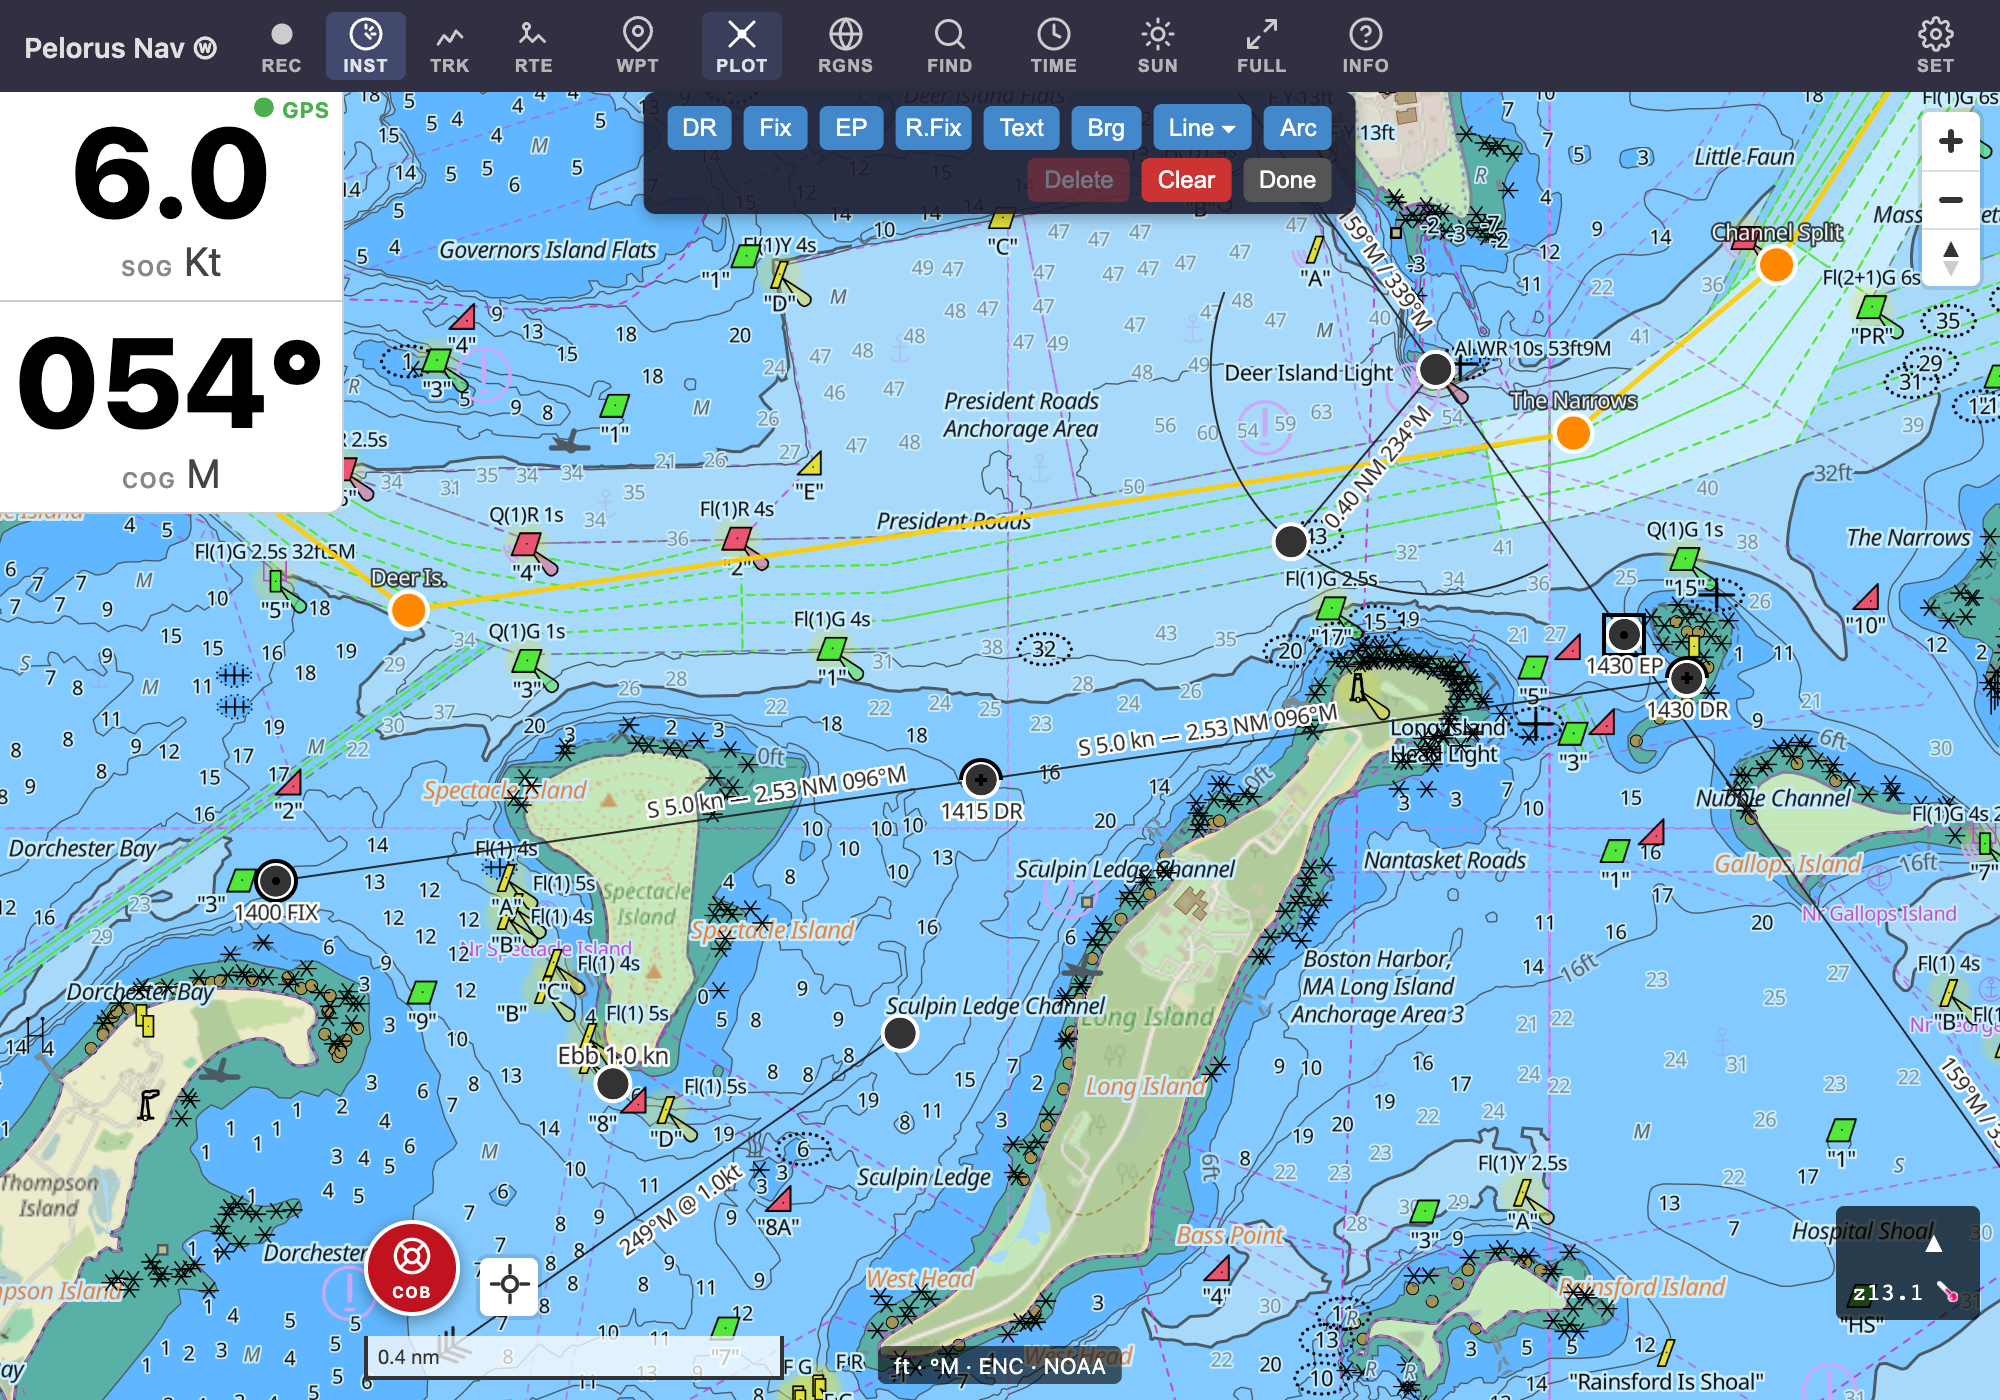
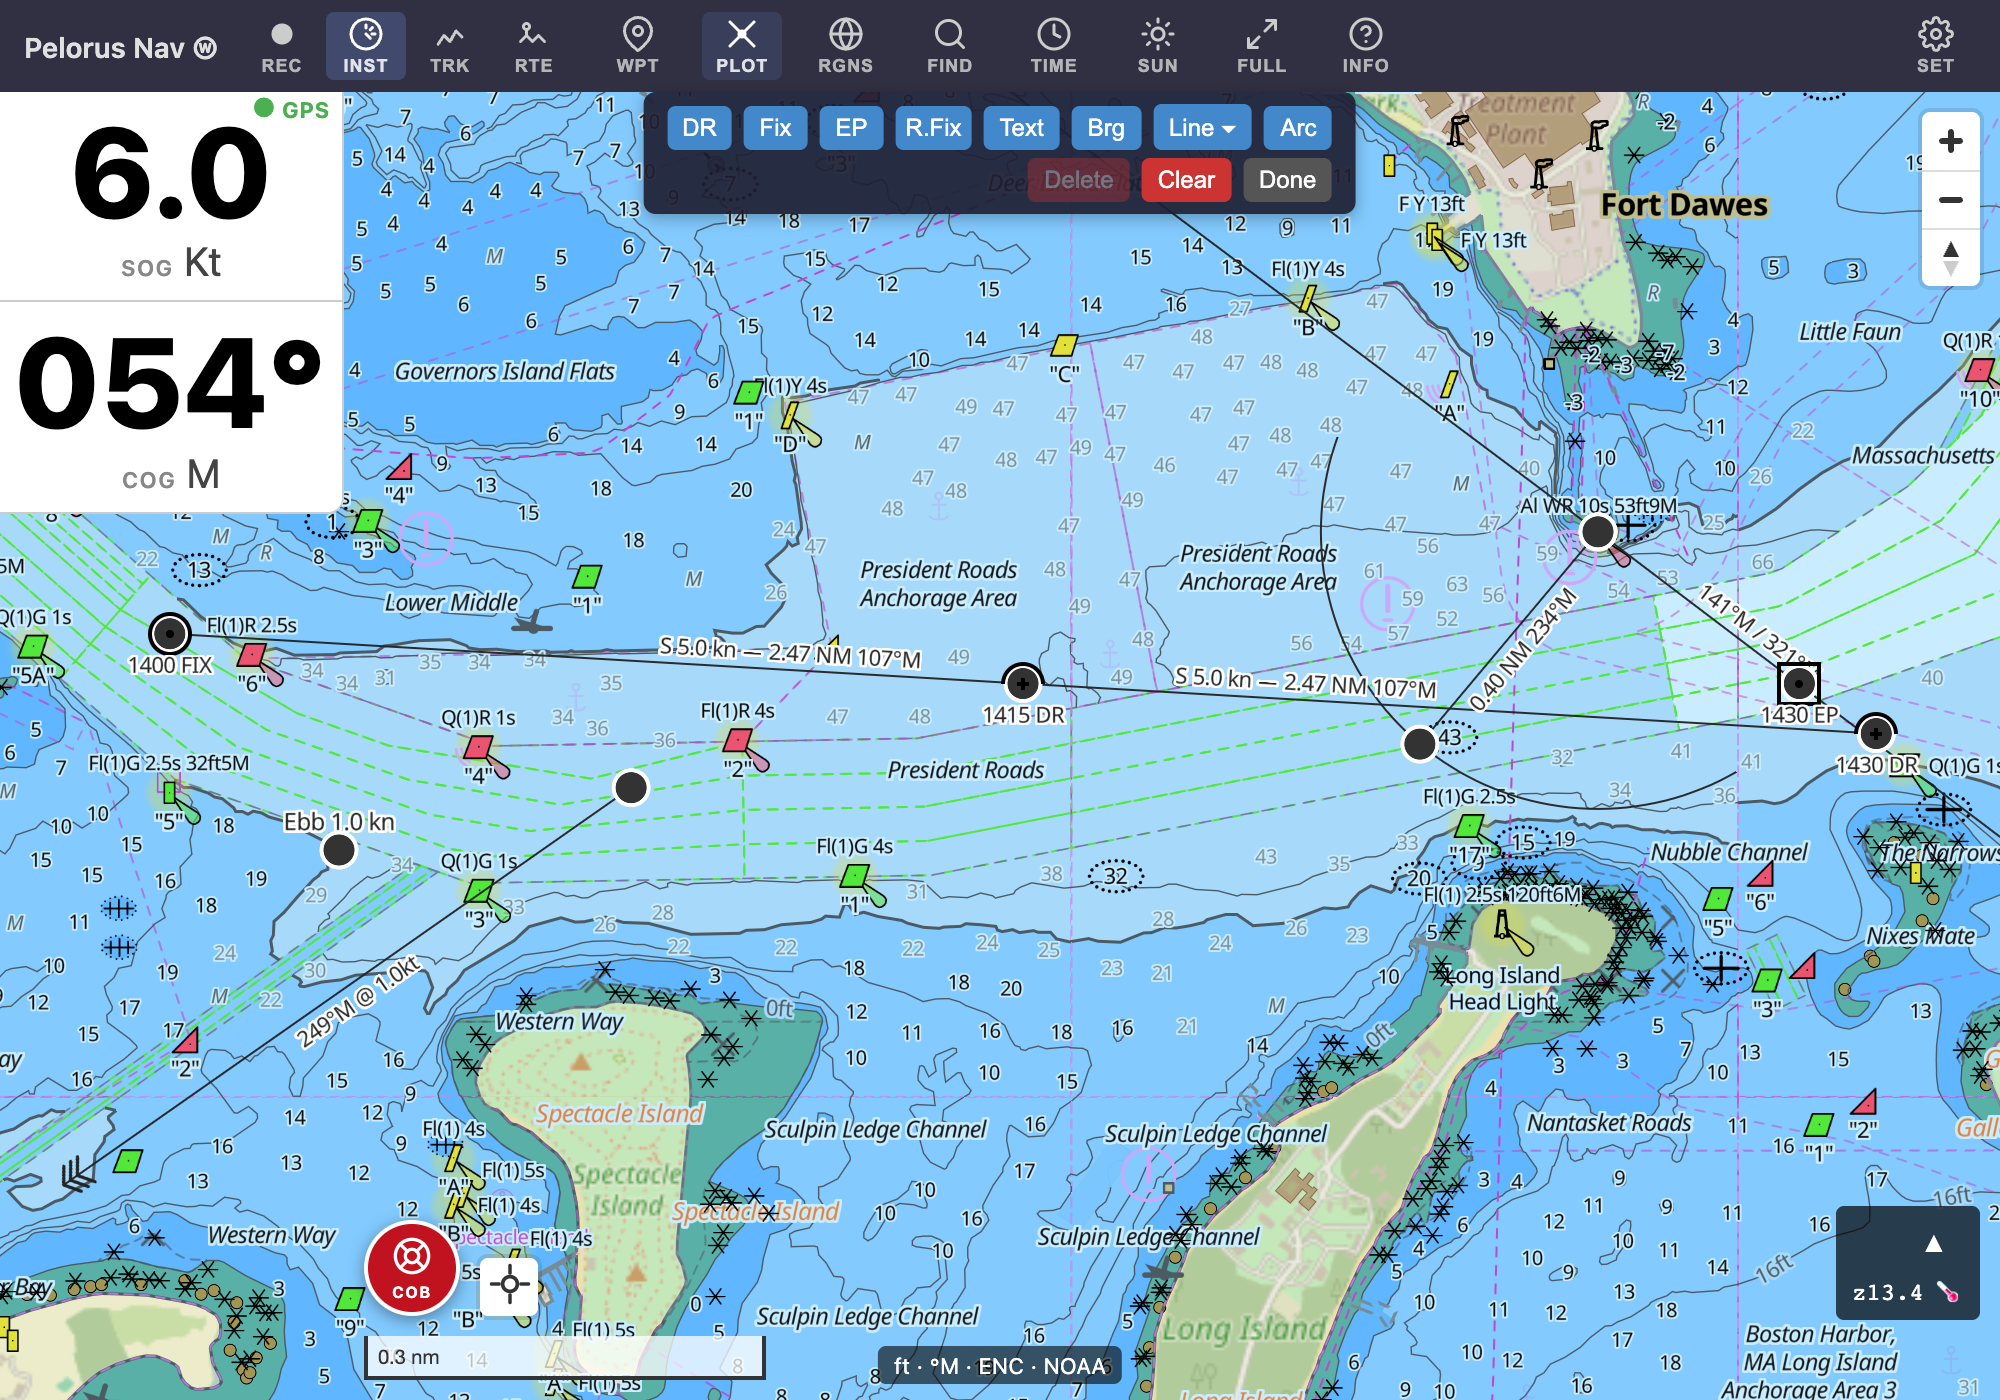
docs: keep the worked plot in the channel (and off Nixes Mate)

diff --git a/tools/docs-shots.ts b/tools/docs-shots.ts
@@ -91,10 +91,12 @@ const SEED_TRACK = buildSeedTrack();
 // with computed magnetic bearings and distances itself.
 function buildPlotSheet() {
   const LIGHT = { lat: 42.33965, lon: -70.95455 }; // Deer Island Light
-  const A = { lat: 42.3245, lon: -71.001 }; // 1400 fix
-  const B = { lat: 42.3305, lon: -70.9445 }; // 1430 DR
+  // The DR track runs east mid-channel through President Roads — keep it
+  // in deep water; nobody wants a worked example aground on Nixes Mate.
+  const A = { lat: 42.3372, lon: -71.001 }; // 1400 fix
+  const B = { lat: 42.3348, lon: -70.9455 }; // 1430 DR
   const MID = { lat: (A.lat + B.lat) / 2, lon: (A.lon + B.lon) / 2 };
-  const EP = { lat: 42.3318, lon: -70.947 }; // LOP pushes the DR a bit N
+  const EP = { lat: 42.336, lon: -70.948 }; // LOP pushes the DR a bit N
 
   const brg = (
     from: { lat: number; lon: number },
@@ -155,14 +157,14 @@ function buildPlotSheet() {
       el(
         {
           type: "current-arrow",
-          lat: 42.32,
-          lon: -70.976,
+          lat: 42.3335,
+          lon: -70.986,
           setTrue: 235,
           driftKnots: 1.0,
         },
         8,
       ),
-      el({ type: "text", lat: 42.3185, lon: -70.9875, text: "Ebb 1.0 kn" }, 9),
+      el({ type: "text", lat: 42.332, lon: -70.9955, text: "Ebb 1.0 kn" }, 9),
     ],
   };
 }
@@ -183,6 +185,8 @@ interface Scene {
   seedWaypoint?: boolean;
   /** Seed the worked example plotting sheet (plotting scenes only). */
   seedPlot?: boolean;
+  /** Set false to omit the demo route (default true). */
+  seedRoute?: boolean;
   /** Extra fields merged into the seeded settings blob (e.g. layerGroups). */
   settings?: Record<string, unknown>;
   /** Screenshot only this element instead of the full page. */
@@ -270,10 +274,11 @@ const SCENES: Scene[] = [
   },
   {
     name: "plotting",
-    zoom: 13.1,
-    center: [-70.972, 42.3285],
+    zoom: 13.4,
+    center: [-70.974, 42.3345],
     vessel: [42.365, -70.905], // out of frame; the plot is the subject
     seedPlot: true,
+    seedRoute: false,
     actions: async (page) => {
       await clickTopbar(page, "Plot");
       await page.waitForSelector(".plot-toolbar");
@@ -415,7 +420,7 @@ async function shoot(scene: Scene, browser: Browser) {
       };
       version: string;
       vessel: [number, number];
-      wpts: typeof ROUTE_WPTS;
+      wpts: typeof ROUTE_WPTS | null;
       track: typeof SEED_TRACK | null;
       waypoint: boolean;
       plot: typeof SEED_PLOT | null;
@@ -468,14 +473,16 @@ async function shoot(scene: Scene, browser: Browser) {
           "readwrite",
         );
         if (cfg.plot) tx.objectStore("plottingSheets").put(cfg.plot);
-        tx.objectStore("routes").put({
-          id: "docs-shot-route",
-          name: "Outer Harbor",
-          createdAt: Date.now(),
-          color: "#ffcc00",
-          visible: true,
-          waypoints: cfg.wpts.map(([lat, lon, name]) => ({ lat, lon, name })),
-        });
+        if (cfg.wpts) {
+          tx.objectStore("routes").put({
+            id: "docs-shot-route",
+            name: "Outer Harbor",
+            createdAt: Date.now(),
+            color: "#ffcc00",
+            visible: true,
+            waypoints: cfg.wpts.map(([lat, lon, name]) => ({ lat, lon, name })),
+          });
+        }
         if (cfg.waypoint) {
           tx.objectStore("waypoints").put({
             id: "docs-shot-home",
@@ -502,7 +509,7 @@ async function shoot(scene: Scene, browser: Browser) {
       scene: scene,
       version: APP_VERSION,
       vessel: scene.vessel ?? VESSEL,
-      wpts: ROUTE_WPTS,
+      wpts: scene.seedRoute === false ? null : ROUTE_WPTS,
       track: scene.seedTrack ? SEED_TRACK : null,
       waypoint: scene.seedWaypoint ?? false,
       plot: scene.seedPlot ? SEED_PLOT : null,

diff --git a/docs-site/plotting.md b/docs-site/plotting.md
@@ -58,7 +58,7 @@ distance, so a plotted line doubles as a measurement.
 
 ## A worked example
 
-Here's a half hour of classic chartwork in Nantasket Roads — a 1400 fix,
+Here's a half hour of classic chartwork in President Roads — a 1400 fix,
 a DR track run out at 5 knots, and at 1430 a bearing of Deer Island Light
 giving a line of position; where the LOP disagrees with the 1430 DR, an
 EP square marks the better answer. A 0.4 NM danger arc rings the light,